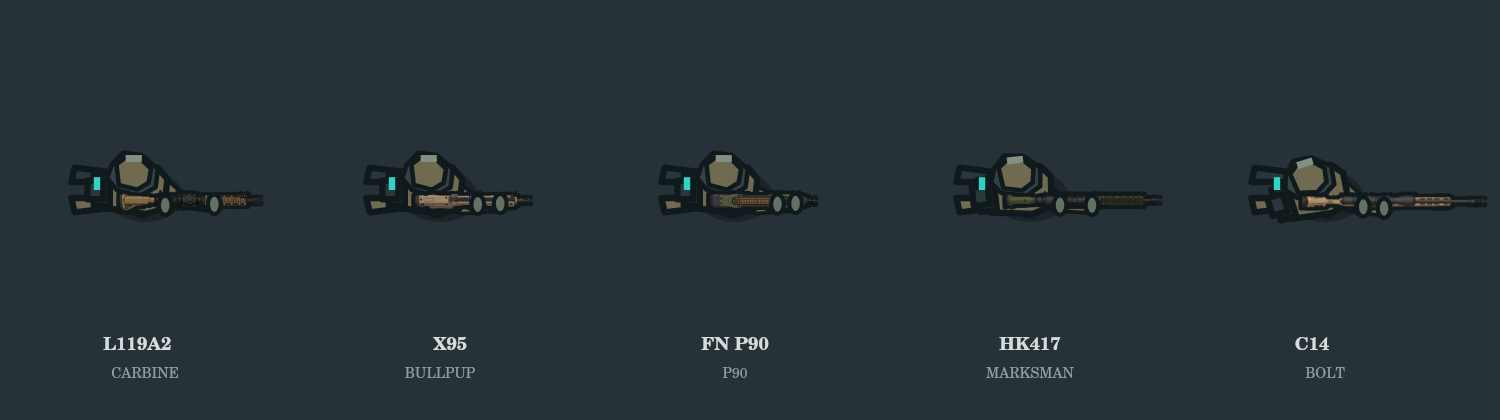
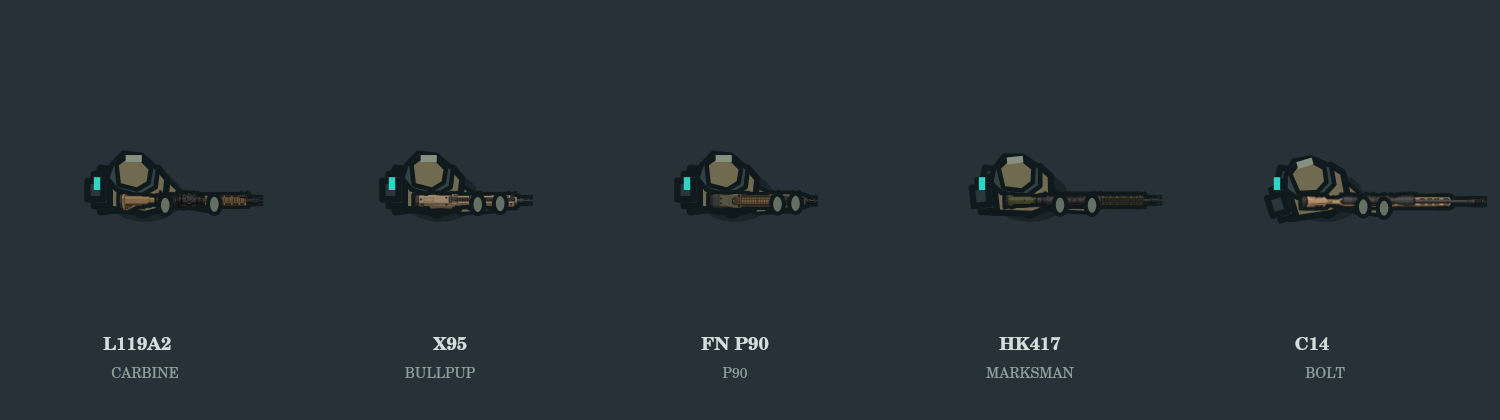
등 뒤 돌출처럼 보이던 하체를 몸통 아래로 넣어 탑뷰 자세 보정
서기·앉기 다리 투영 길이와 보행 진폭을 줄이고 포복은 유지합니다.
총기 파지와 외형/성능 분리를 보존하며 64/128 정적 이미지를 갱신합니다.
조립·160방향·무기 표현 검사 통과. 브라우저 미실행.

diff --git a/artifacts/draft-order-player-generator/src/components/modularOperator.ts b/artifacts/draft-order-player-generator/src/components/modularOperator.ts
@@ -125,9 +125,11 @@ function polygon(ctx:CanvasRenderingContext2D,points:number[][],fill:string):voi
 }
 
 function paintLowerBody(ctx:CanvasRenderingContext2D,pose:OperatorAssemblyPose,time:number,reducedMotion:boolean,color:string):void {
-  const relative=normalize(pose.lowerFacing-pose.upperFacing),step=!reducedMotion&&pose.moving&&!pose.prone?Math.sin(time*(pose.crouched?8:12))*3:0;
+  const relative=normalize(pose.lowerFacing-pose.upperFacing),step=!reducedMotion&&pose.moving&&!pose.prone?Math.sin(time*(pose.crouched?8:12))*1.4:0;
   ctx.save();ctx.rotate(relative);ctx.strokeStyle='#10191C';ctx.lineWidth=2;ctx.lineJoin='round';
-  for(const side of [-1,1]){const rear=pose.prone?-29:pose.crouched?-13:-18+side*step;
+  // 서기/앉기에서는 다리가 골반 아래로 내려가므로 탑뷰에 짧게만 투영됩니다.
+  // 포복의 뒤로 뻗은 다리를 서 있는 자세에 재사용하지 않습니다.
+  for(const side of [-1,1]){const rear=pose.prone?-29:(pose.crouched?-7:-10)+side*step;
     polygon(ctx,[[rear-5,side*2.5],[rear+7,side*2.5],[rear+8,side*5.5],[rear-4,side*7]],side<0?'#29373A':color);}
   ctx.restore();
 }

diff --git a/docs/operator-shouldering-current.md b/docs/operator-shouldering-current.md
@@ -5,6 +5,10 @@
 작업 기준: `feat/modular-operator-renderer`, PR #15, 시작 커밋 `2a02c65`.
 목표는 총을 오른쪽 외곽에 얹은 인상을 제거하고 어깨·양손·총을 하나의 자세로 읽게 하는 것이다. 통짜 시트와 새 총기 원화는 만들지 않았다. 실제 브라우저는 실행하지 않았다.
 
+## 하체 투영 후속 보정
+
+뒤로 두 갈래 돌출되던 다리/군화를 수정했다. 서기 하체 기준 X를 -18→-10, 앉기를 -13→-7로 옮겨 몸통 아래에 가리고 보행 진폭을 3→1.4로 줄였다. 포복의 길게 뻗은 다리와 이동/조준 방향 분리는 유지한다. 정적 64/128 및 확대 이미지를 갱신했다. 브라우저는 실행하지 않았다.
+
 ## 체형 후속 보정
 
 사용자가 몸통이 지나치게 두껍다고 지적했다. 머리·총기 크기는 유지하고 몸통 폭 22→15, 하체 폭 20→14, 배낭 폭 약 24% 축소, 어깨 간격 15→11.5로 조정했다. 방아쇠팔을 안쪽으로 접고 그림자도 축소했다. 모두 표시 좌표이며 충돌·성능 변경은 없다. 정적 이미지는 갱신했으며 미술 승인 대기다.

diff --git a/docs/PROJECT_STATE.md b/docs/PROJECT_STATE.md
@@ -1,3 +1,5 @@
+> **하체 투영 수정:** 서기/앉기 다리를 몸통 아래로 넣어 뒤쪽 두 갈래 돌출 제거. 포복은 유지. [현재 자세와 검수표](operator-shouldering-current.md)
+
 > **체형 보정:** 머리/총기 유지, 몸통·하체 폭 약 30% 축소, 군장·그림자 축소 및 팔 밀착. 정적 이미지 갱신, 미술 승인 대기.
 
 > **외형 반려 후 수정:** 머리에서 팔이 솟는 시안은 사용자 반려. 지지팔을 안쪽으로 접고 위팔을 몸통/머리 뒤로 가리는 수정 적용. 이전 외형 품질 판정 철회, 사용자 미술 승인 대기. [상세](operator-shouldering-current.md)
